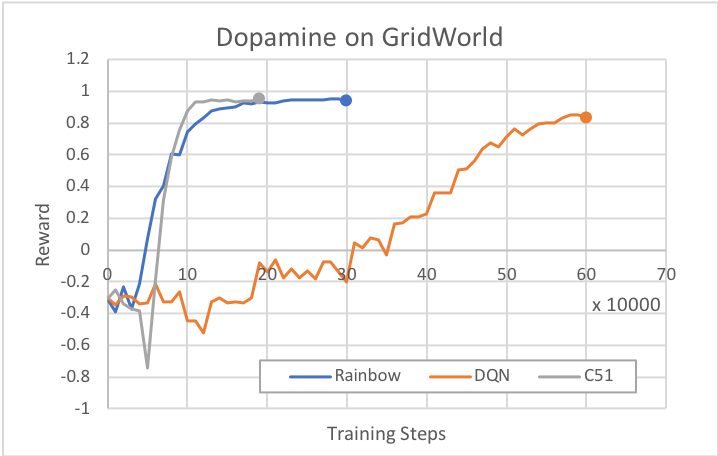
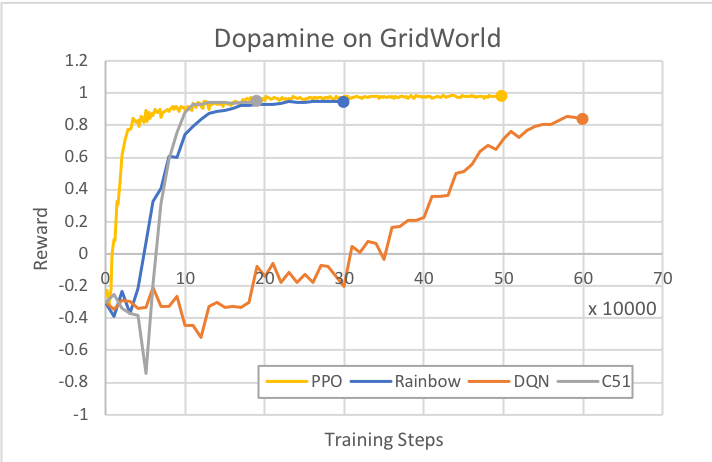
Add PPO comparison in plot.

diff --git a/gym-unity/README.md b/gym-unity/README.md
@@ -314,10 +314,14 @@ edited the Atari files directly, this should be `atari`.
 ### Example: GridWorld
 
 As a baseline, here are rewards over time for the three algorithms provided with
-Dopamine as run on the GridWorld example environment. All three runs were done 
-with the same epsilon, epsilon decay, replay history, training steps, and buffer 
-settings as specified above. Note that the first 20000 steps are used to pre-fill
+Dopamine as run on the GridWorld example environment. All Dopamine (DQN, Rainbow, 
+C51) runs were done with the same epsilon, epsilon decay, replay history, training steps, 
+and buffer settings as specified above. Note that the first 20000 steps are used to pre-fill
 the training buffer, and no learning happens. 
+
+We also compare our PPO implementation as reference. Note that the PPO was run with the
+same greyscale GridWorld as Dopamine, and `num_layers` was set to 2. All other hyperparameters
+are the default for GridWorld in `trainer_config.yaml`. 
 
 ![Dopamine on GridWorld](images/dopamine_gridworld_plot.png)
 
